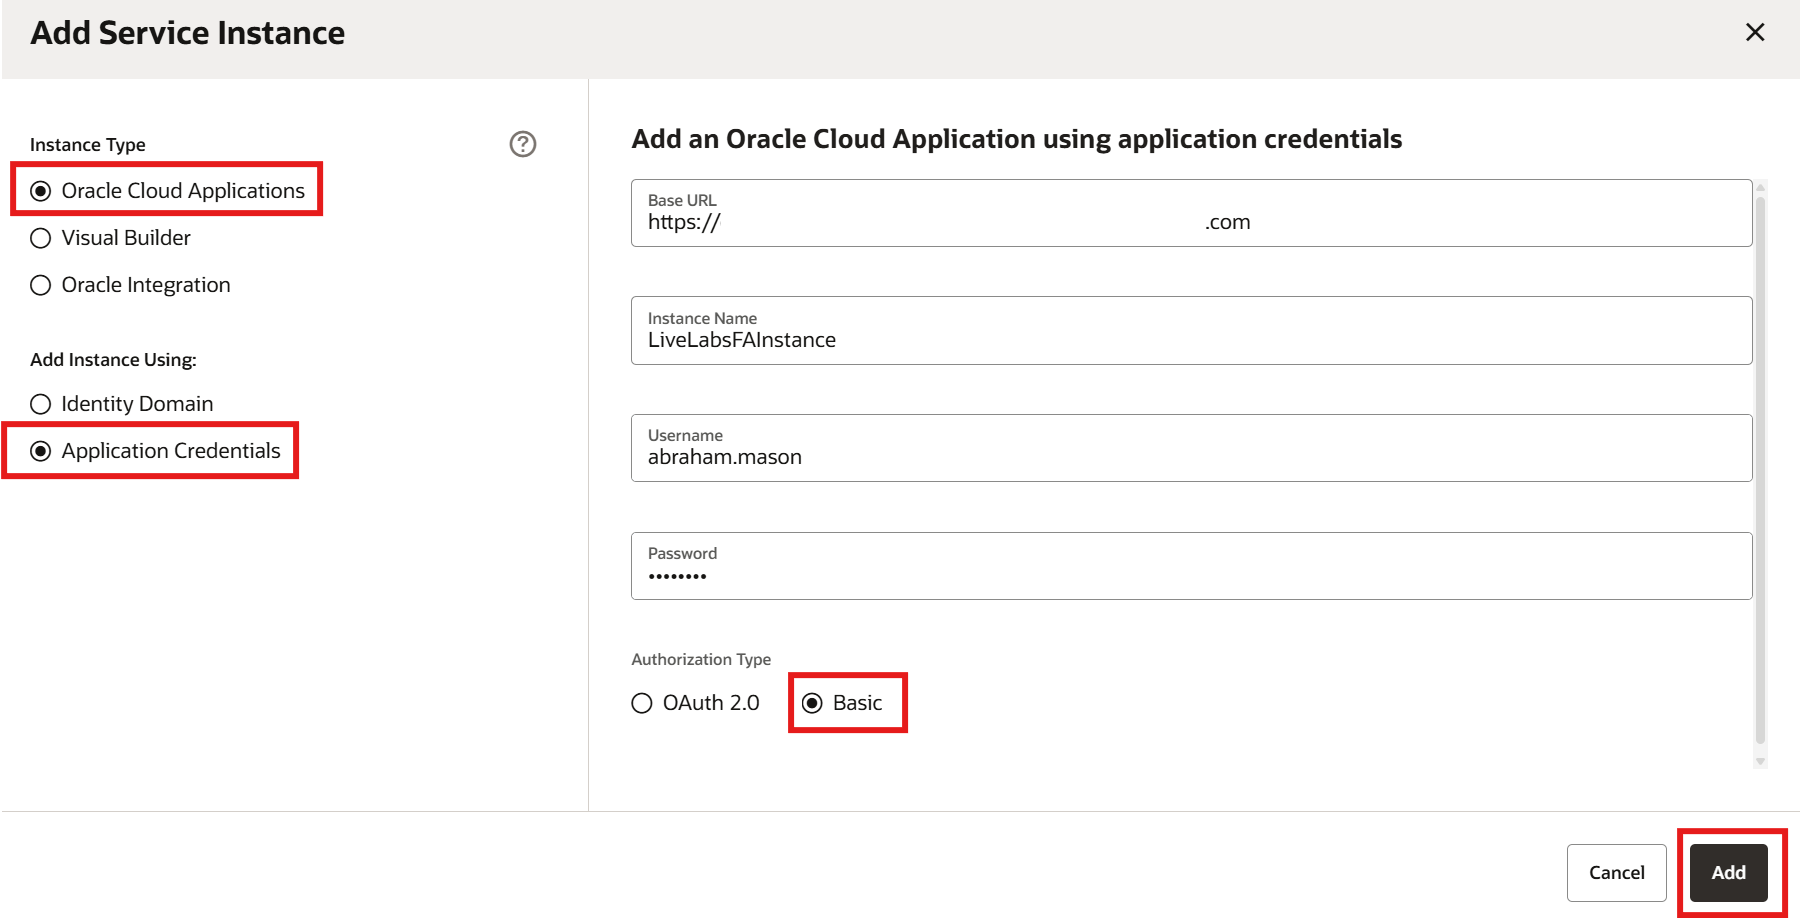
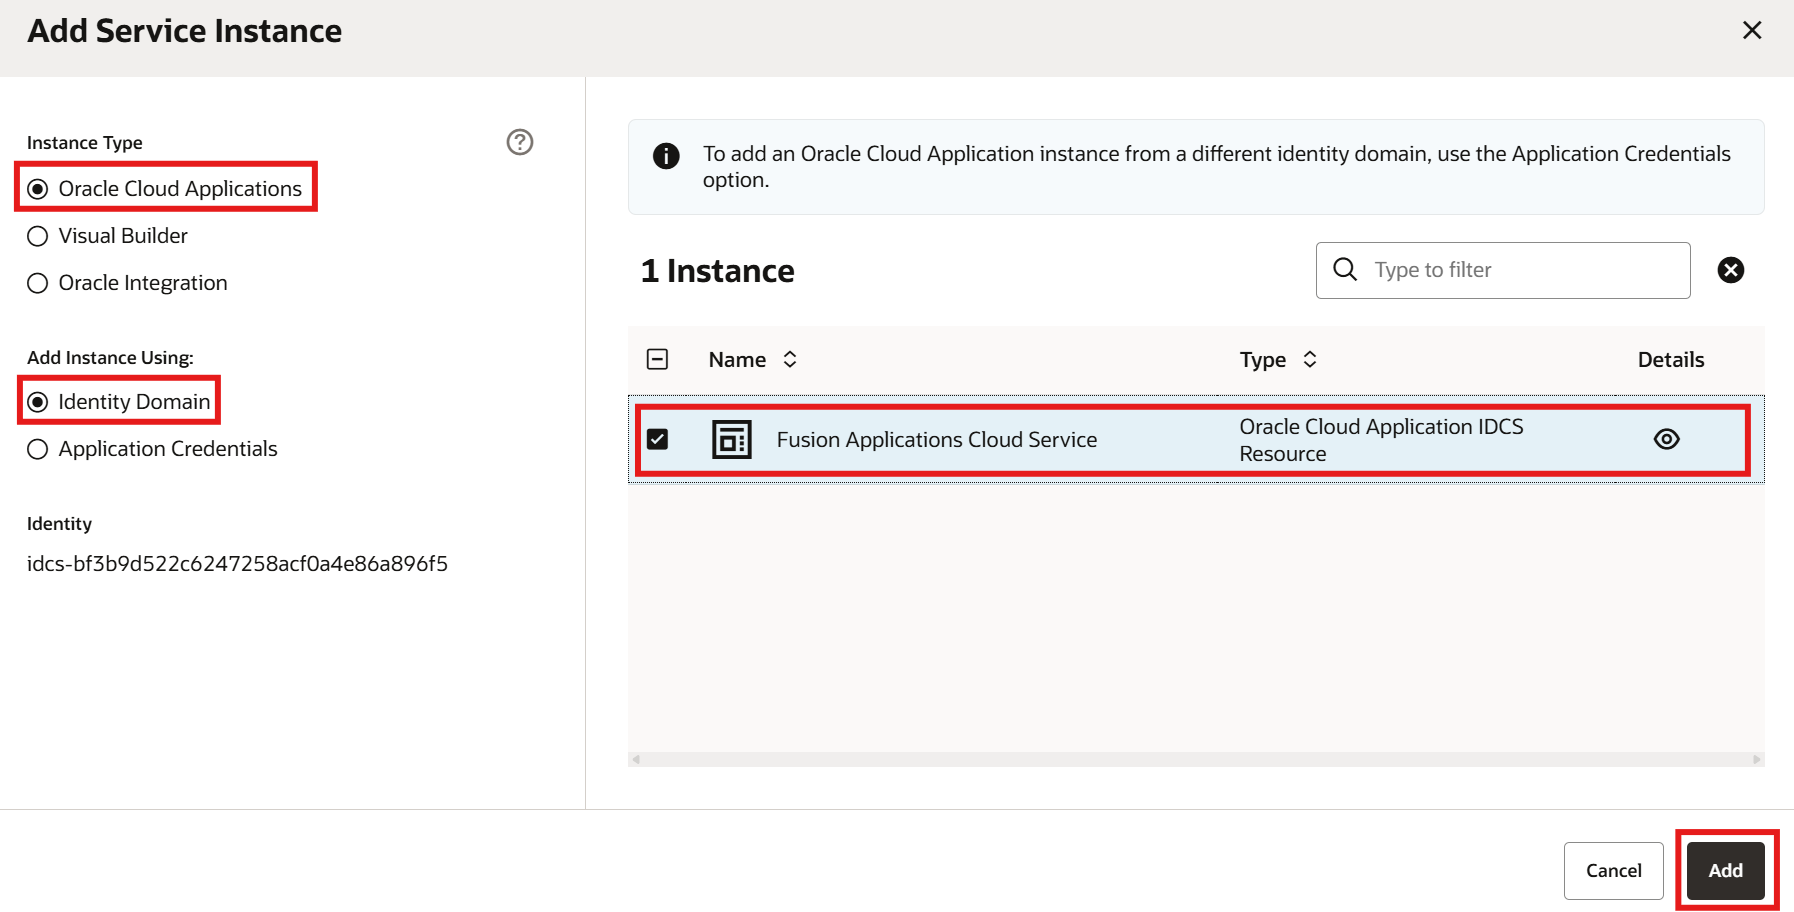
WMS ID 11916 - Add VBCS FA Instance using Identity Domain option

diff --git a/webcenter-content/wcc-ma-vbcs/create-vbcs-app/create-vbcs-app.md b/webcenter-content/wcc-ma-vbcs/create-vbcs-app/create-vbcs-app.md
@@ -91,19 +91,9 @@ This lab assumes you have:
 
    a. Instance Type - Select **Oracle Cloud Applications**.
 
-   b. Add Instance Using - Select **Application Credentials**.
+   b. Add Instance Using - Select **Identity Domain**.
 
-   c. Base URL - **{FAUrl}**
-
-   d. Instance Name - {Name}
-
-   e. Username - {username}
-
-   f. Password - {password}
-
-   g. Authorization Type - Basic
-
-8. Click **Add**
+   c. In instance list select **Fusion Applications Cloud Service** and click **Add**. 
 
 ![This image shows Add Instance Dialog](images/add-instance.png "Add Instance Dialog")
 
